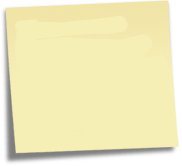
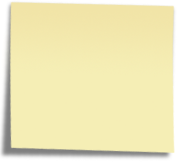
styling changes to new sticky with font

diff --git a/resources/css/kt-new-ui.css b/resources/css/kt-new-ui.css
@@ -2094,3 +2094,71 @@ td.line { word-break: break-word; overflow: hidden; width: 100%;}
 	padding-left: 14px;
 	font-weight: bold;
 }
+
+/*New Features Sticky */
+
+@font-face {
+   font-family: "Handwriting";
+   font-style: normal;
+   font-weight: normal;
+   src: url("/resources/css/newui/newfeatures/handwriting-Print.woff") format("woff"), url("/resources/css/newui/newfeatures/handwriting-Print.ttf") format("truetype"), url("/resources/css/newui/newfeatures/handwriting-Print.svg") format("svg");
+}
+
+div.helperTextOverlay * {
+   
+}
+
+div.helperTextOverlay {
+   
+   font-family: DeliciousRoman, Helvetica, Arial, sans-serif;
+
+   background:url('../graphics/feature_notifications/newfeature_background.png') no-repeat;
+   
+   padding:15px;
+   
+   /*margin:1em 0 3em;*/
+   color: #4C80A7;
+   
+   font-family: "Handwriting";
+   font-weight: bold;
+   
+   -webkit-transform: rotate(-4deg); 
+   -moz-transform: rotate(-4deg);
+   
+   width: 145px;
+   height: 140px;
+   display: block;
+   position: absolute;
+   z-index: 2000;
+   overflow: hidden;
+
+   /* css3 */
+   -moz-border-radius:10px;
+   -webkit-border-radius:10px;
+   border-radius:10px;
+}
+
+div.helperTextOverlay a {
+   position: absolute;
+   top: 10px;
+   right: 18px;
+   background: url(../graphics/newui/close.png) no-repeat;
+   width: 20px;
+   height: 20px;
+   text-decoration: none;
+   font-size: 10px;
+   opacity: 0.9;
+   color: transparent;
+}
+
+div.helperTextOverlay a:hover {
+   opacity: 1;
+}
+
+#new_feture_settings_2 {
+   background:url('newfeatures/settings.gif') no-repeat;
+   left: 400px;
+   top: 100px;
+   color: transparent;
+   height: 133px;
+}

diff --git a/plugins/NewFeatureNotification/resources/css/new_features.css b/plugins/NewFeatureNotification/resources/css/new_features.css
@@ -2,4 +2,6 @@
 #rating-content {
 	top: 50px;
 	left: 350px;
+	padding: 15px 23px 10px 20px;
+	font-size: 16px;
 }
